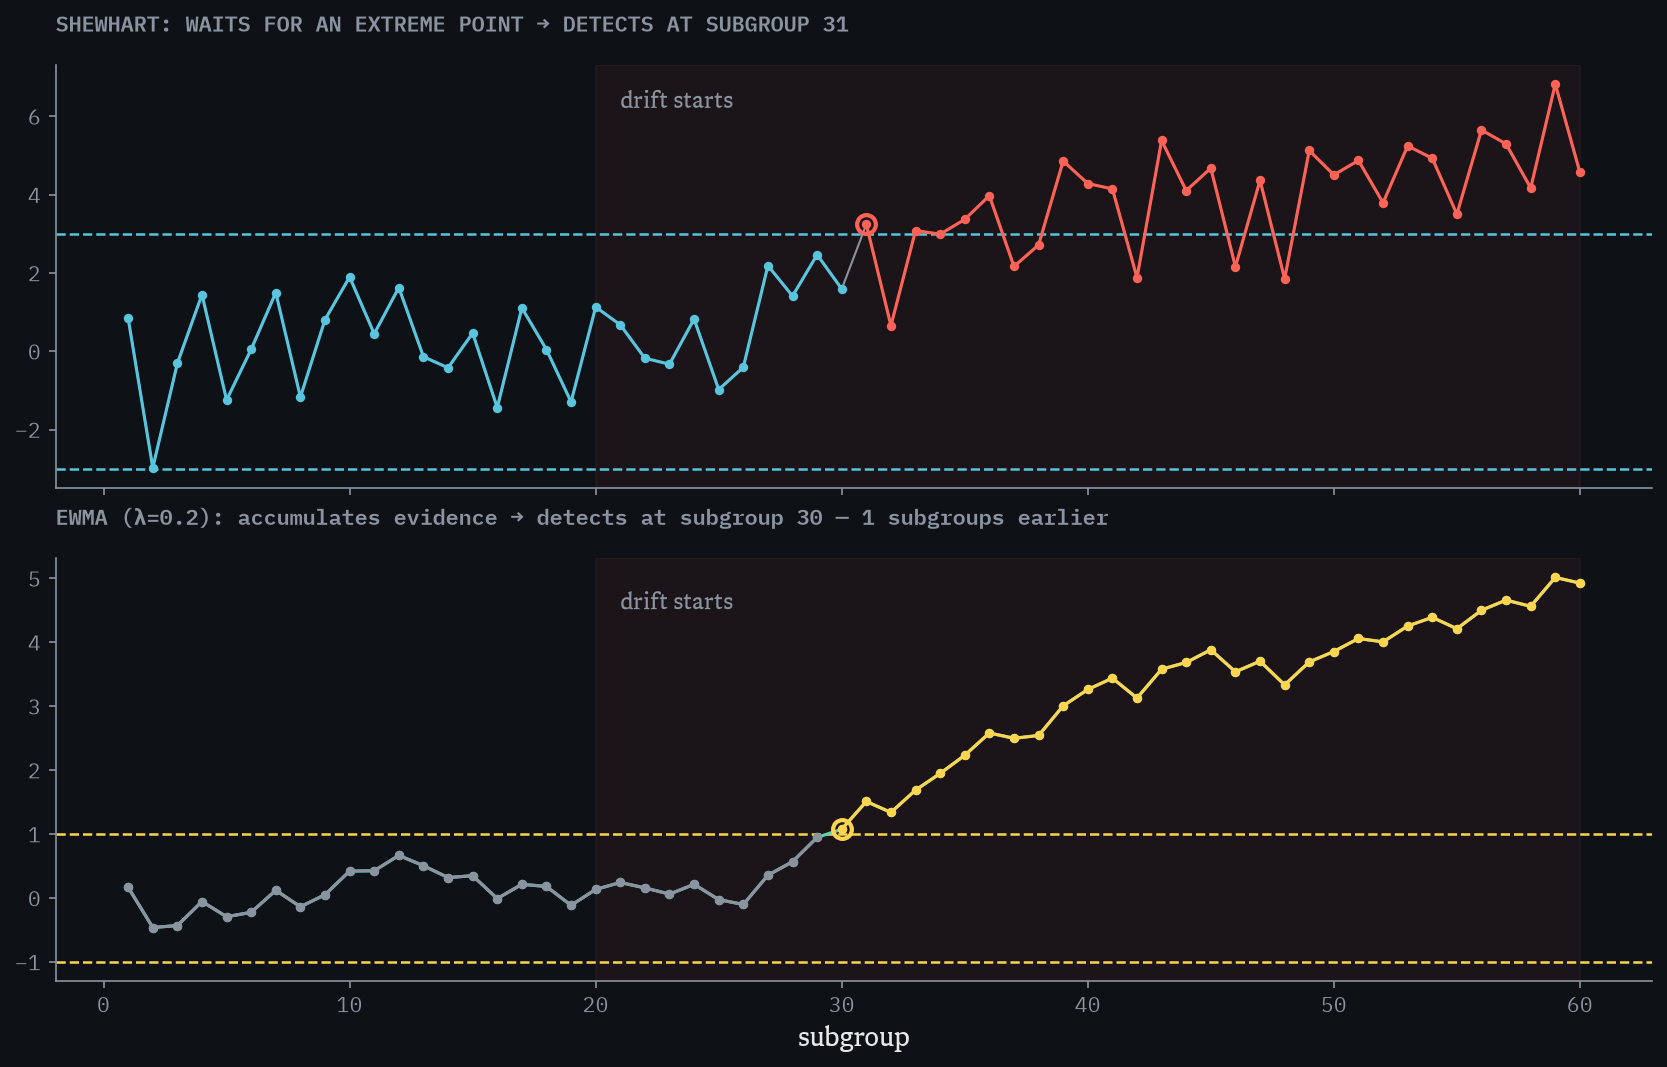
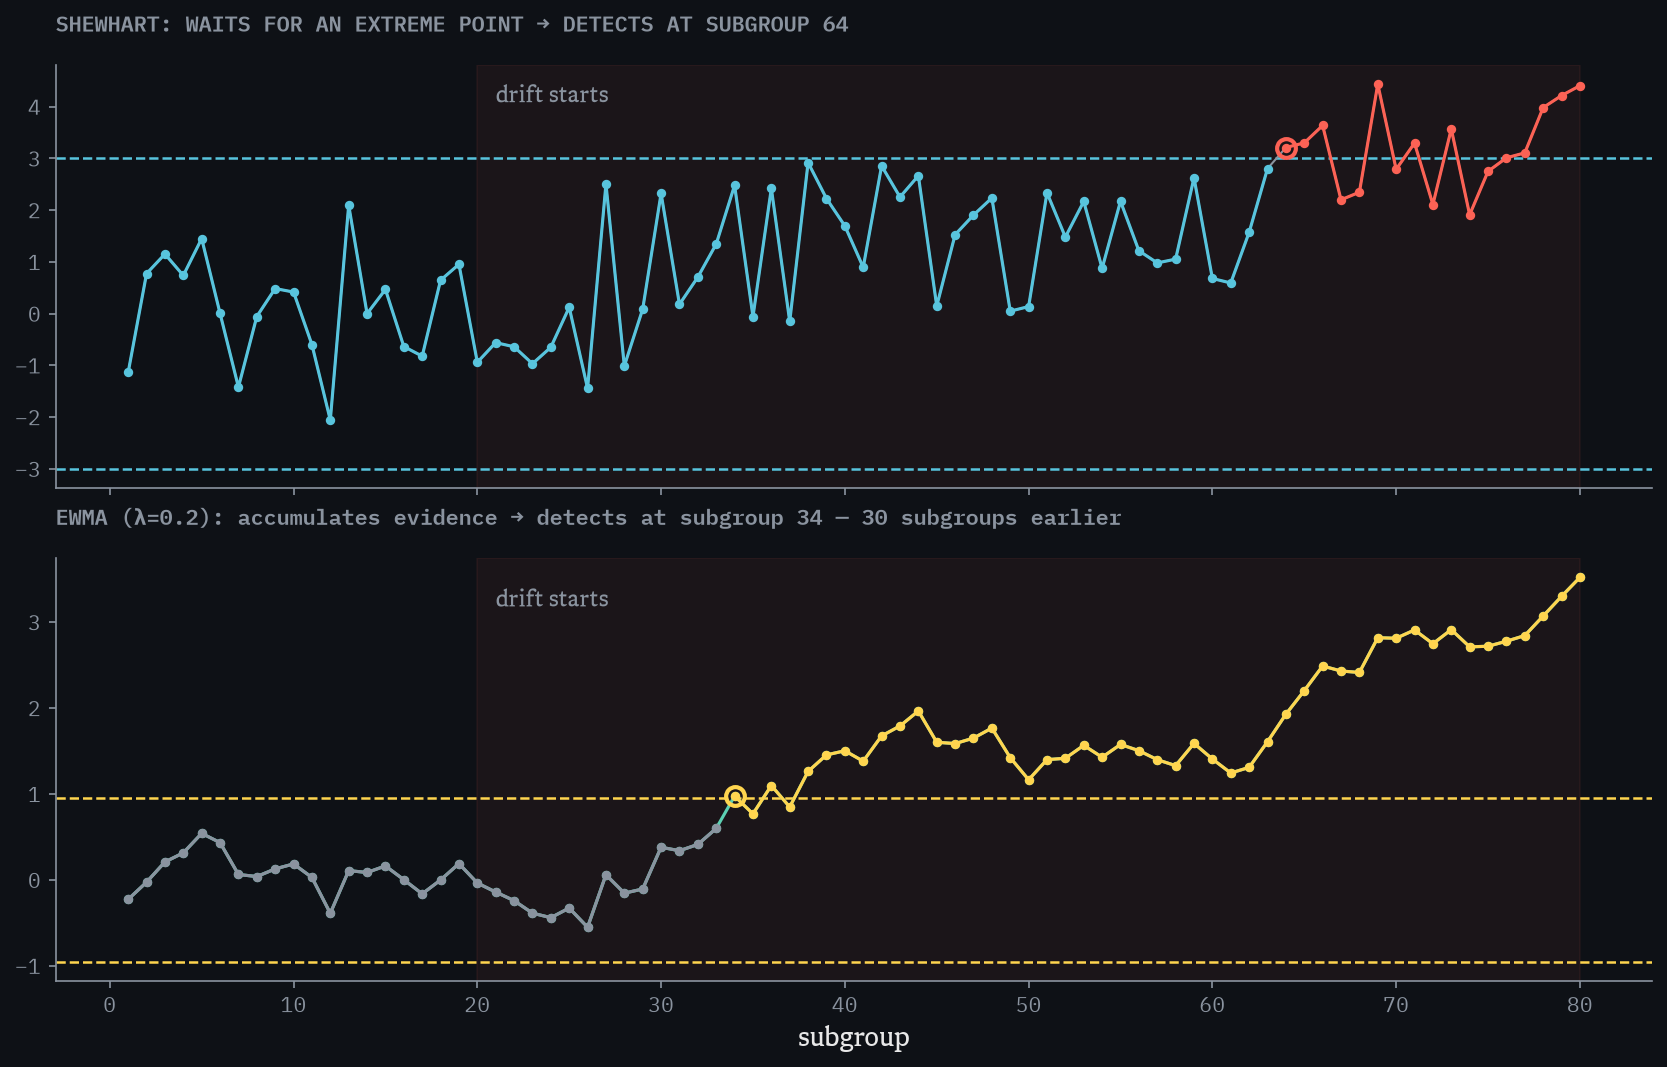
Level 9 race figure: plot the act's run at the calibrated limit (34 vs 64)
The figure drew seed 55 / 60 subgroups at an uncalibrated 3 sigma_z limit
while 9.4's prose, the act and the lab cite the act's 80-subgroup run at
EWMA_LIMIT 0.957, and its title claimed a same false-alarm rate it did not
have. drifting_process moves from level09_scene into detection so the figure
and the act share one source; caption now says thirty subgroups earlier.

diff --git a/spc-lab/src/spclab/level09_scene.py b/spc-lab/src/spclab/level09_scene.py
@@ -42,38 +42,13 @@ from spclab.act_style import (
     at_panel, gauge, micro, prose,
 )
 from spclab.detection import (
+    DET_EWMA, DET_SHEW, DRIFT, N_SUB, OFF_EWMA, OFF_SHEW, RAW, SHIFT_AT, ZS,
+    drifting_process,
     ARL0_EWMA, ARL0_SHEW, ARL1_EWMA, ARL1_SHEW, EWMA_LIMIT, LAM,
     SHEWHART_ARL0, SPEEDUP,
 )
 from spclab.narration import NarratedCameraScene
 
-# The demonstration process: 80 subgroups, quiet until 20, then a ramp of
-# 0.06 σ per subgroup. The old act ramped at 0.15 σ, which reaches 6 σ inside
-# the window — on that data the Shewhart chart caught the drift one subgroup
-# after the EWMA, so the single realisation contradicted the averages it was
-# supposed to illustrate. This ramp is slow enough to be the failure mode the
-# act is about, and seed 35 is a run whose lead matches the simulated ARLs.
-N_SUB, SHIFT_AT, DRIFT, SEED = 80, 20, 0.06, 35
-
-
-def drifting_process():
-    """One process: quiet, then a slow ramp. Same data for both charts."""
-    rng = np.random.default_rng(SEED)
-    raw = rng.normal(0, 1, N_SUB) + np.where(
-        np.arange(N_SUB) >= SHIFT_AT, (np.arange(N_SUB) - SHIFT_AT) * DRIFT, 0.0)
-    z, zs = 0.0, []
-    for v in raw:
-        z = LAM * v + (1 - LAM) * z
-        zs.append(z)
-    return raw, np.array(zs)
-
-
-RAW, ZS = drifting_process()
-# where each rule fires on this run, and how far the mean had already moved
-DET_SHEW = int(next(k for k, v in enumerate(RAW) if abs(v) > 3.0))
-DET_EWMA = int(next(k for k, v in enumerate(ZS) if abs(v) > EWMA_LIMIT))
-OFF_SHEW = (DET_SHEW - SHIFT_AT) * DRIFT
-OFF_EWMA = (DET_EWMA - SHIFT_AT) * DRIFT
 
 
 class Level09(NarratedCameraScene):

diff --git a/spc-lab/src/spclab/detection.py b/spc-lab/src/spclab/detection.py
@@ -74,3 +74,32 @@ if __name__ == "__main__":
     print(f"ARL0   Shewhart {ARL0_SHEW:7.1f}   EWMA {ARL0_EWMA:7.1f}")
     print(f"ARL1σ  Shewhart {ARL1_SHEW:7.1f}   EWMA {ARL1_EWMA:7.1f}"
           f"   → {SPEEDUP:.2f}× sooner")
+
+
+# The demonstration process: 80 subgroups, quiet until 20, then a ramp of
+# 0.06 σ per subgroup. The old act ramped at 0.15 σ, which reaches 6 σ inside
+# the window — on that data the Shewhart chart caught the drift one subgroup
+# after the EWMA, so the single realisation contradicted the averages it was
+# supposed to illustrate. This ramp is slow enough to be the failure mode the
+# act is about, and seed 35 is a run whose lead matches the simulated ARLs.
+N_SUB, SHIFT_AT, DRIFT, SEED = 80, 20, 0.06, 35
+
+
+def drifting_process():
+    """One process: quiet, then a slow ramp. Same data for both charts."""
+    rng = np.random.default_rng(SEED)
+    raw = rng.normal(0, 1, N_SUB) + np.where(
+        np.arange(N_SUB) >= SHIFT_AT, (np.arange(N_SUB) - SHIFT_AT) * DRIFT, 0.0)
+    z, zs = 0.0, []
+    for v in raw:
+        z = LAM * v + (1 - LAM) * z
+        zs.append(z)
+    return raw, np.array(zs)
+
+
+RAW, ZS = drifting_process()
+# where each rule fires on this run, and how far the mean had already moved
+DET_SHEW = int(next(k for k, v in enumerate(RAW) if abs(v) > 3.0))
+DET_EWMA = int(next(k for k, v in enumerate(ZS) if abs(v) > EWMA_LIMIT))
+OFF_SHEW = (DET_SHEW - SHIFT_AT) * DRIFT
+OFF_EWMA = (DET_EWMA - SHIFT_AT) * DRIFT

diff --git a/spc-lab/src/spclab/level09.py b/spc-lab/src/spclab/level09.py
@@ -13,6 +13,7 @@ import matplotlib as mpl
 import matplotlib.pyplot as plt
 
 from spclab import figstyle
+from spclab.detection import DET_EWMA, DET_SHEW, EWMA_LIMIT, N_SUB, RAW, SHIFT_AT, ZS
 
 BG, FG, MUTED = "#0e1116", "#e8e8e8", "#8a939f"
 BLUE, TEAL, YELLOW, RED = "#58C4DD", "#5CD0B3", "#FFD54F", "#FC6255"
@@ -133,22 +134,13 @@ def sheet_l09_arl():
 
 
 def sheet_l09_race():
-    """One drifting process, two charts racing to detect it."""
-    rng = np.random.default_rng(55)
-    n = 60
-    shift_at = 20
-    raw = rng.normal(0, 1, n) + np.where(np.arange(n) >= shift_at,
-                                         (np.arange(n) - shift_at) * 0.15, 0)
-    lam = LAM
-    z, zs = 0.0, []
-    for x in raw:
-        z = lam * x + (1 - lam) * z
-        zs.append(z)
-    zs = np.array(zs)
-    lim = 3 * np.sqrt(lam / (2 - lam))
+    """One drifting process, two charts racing to detect it.
 
-    det_s = next(i for i, v in enumerate(raw) if abs(v) > 3)
-    det_e = next(i for i, v in enumerate(zs) if abs(v) > lim)
+    The act's own run (detection.drifting_process) at the calibrated EWMA
+    limit, so the figure, the act, the 9.4 prose and the lab show one race.
+    """
+    raw, zs, n, shift_at = RAW, ZS, N_SUB, SHIFT_AT
+    lim, det_s, det_e = EWMA_LIMIT, DET_SHEW, DET_EWMA
 
     fig, axs = plt.subplots(2, 1, figsize=(11, 7), sharex=True,
                             constrained_layout=True)
